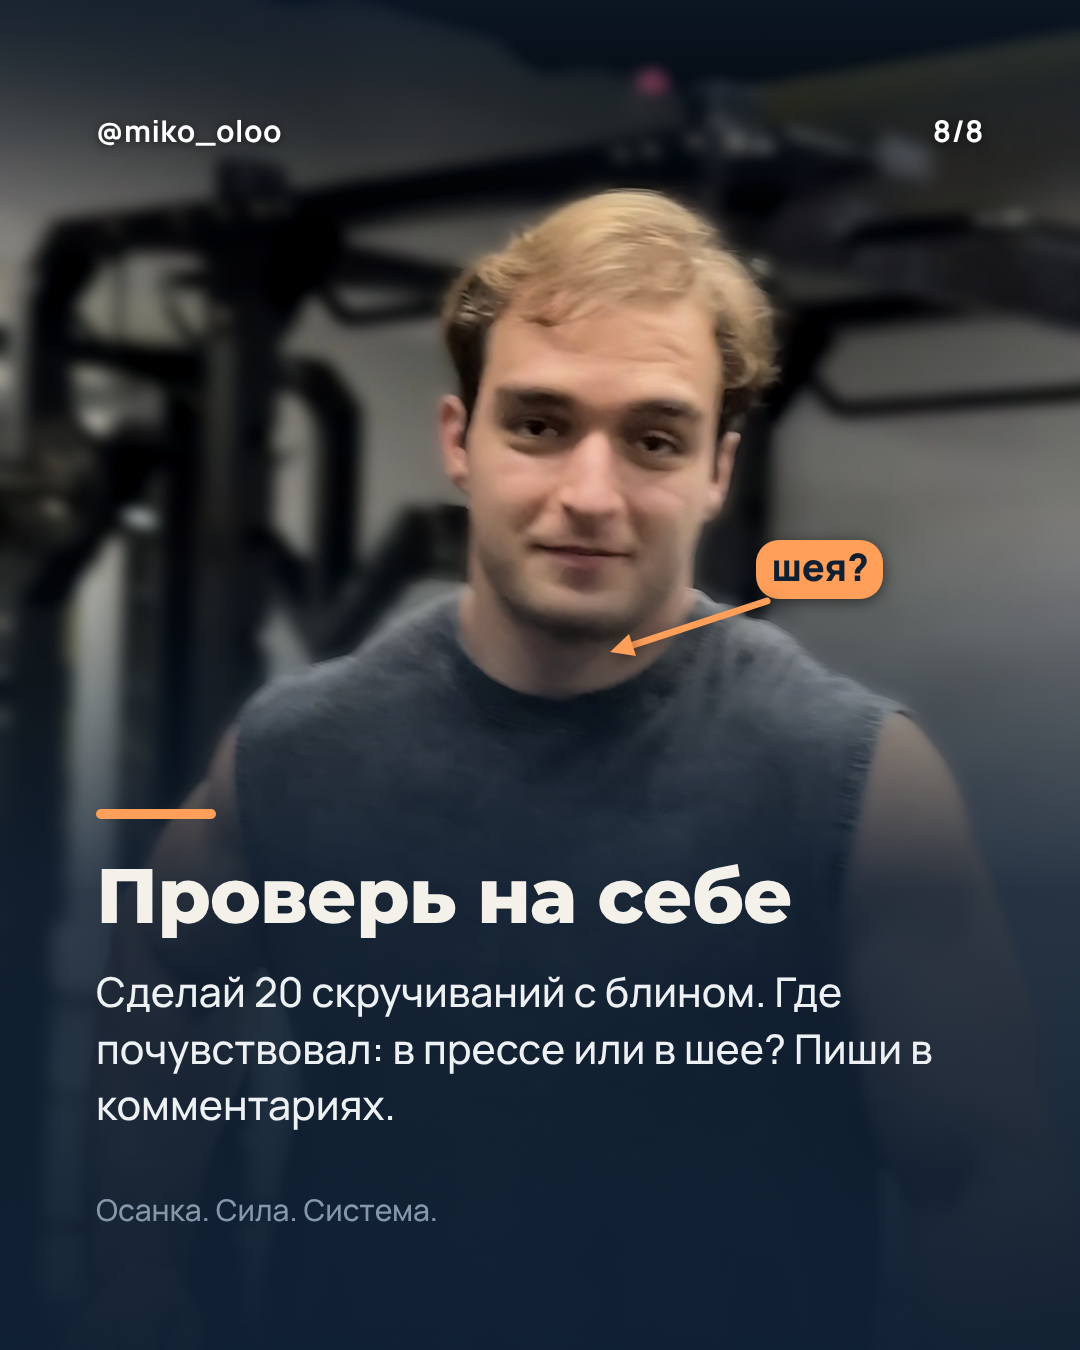
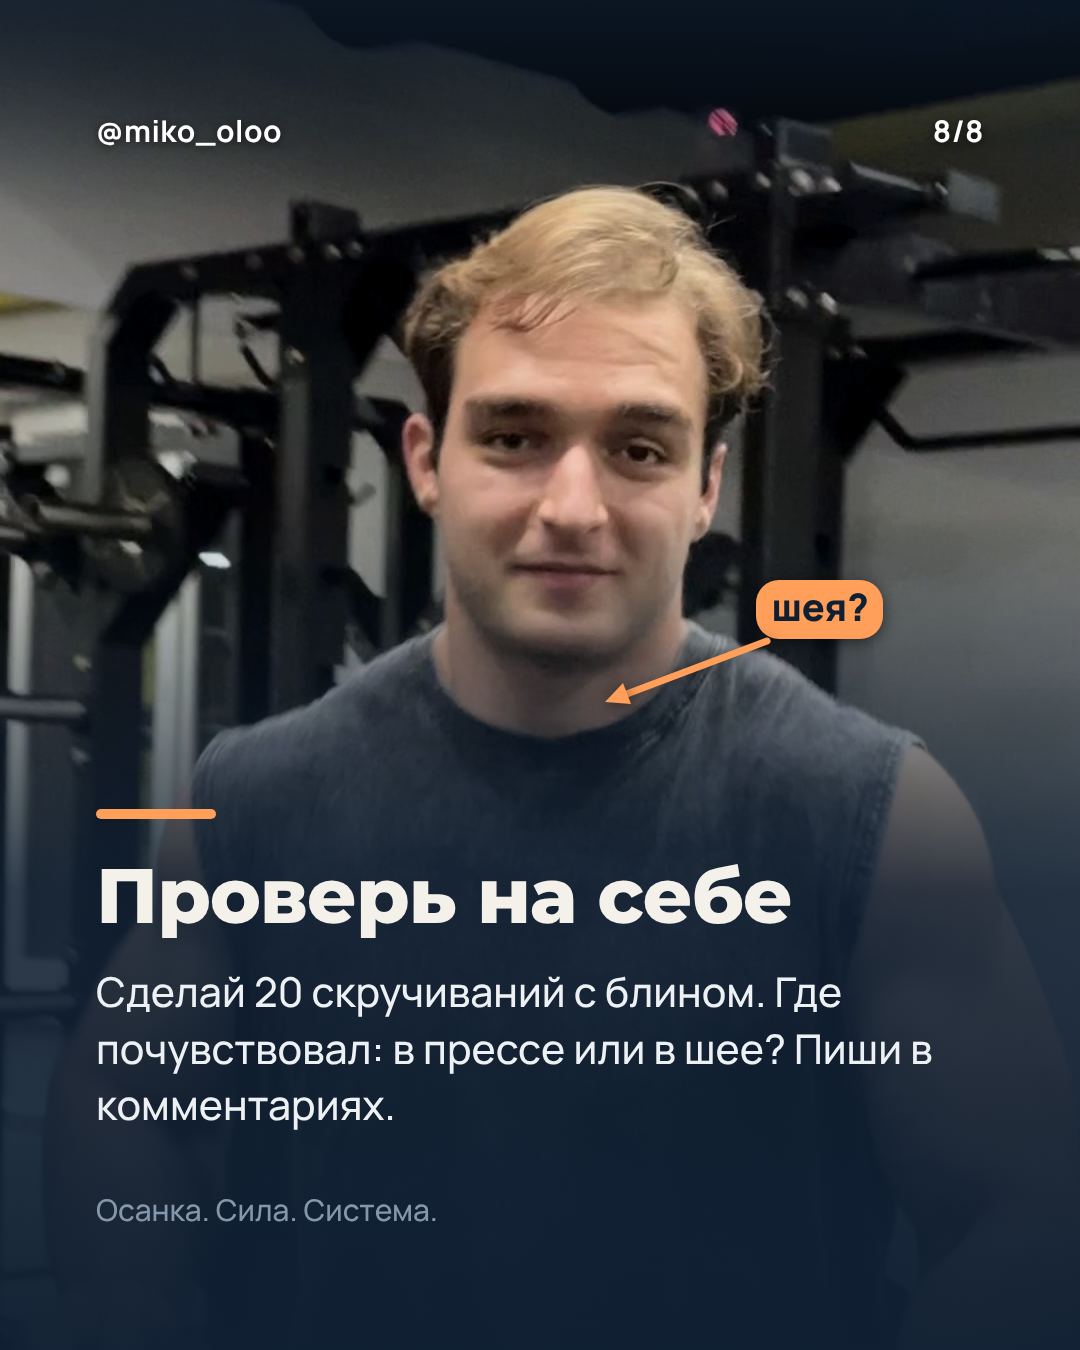
c7: финал на кадре 14,2 с (лицо ровнее, резче, без увеличения и размытия), правки visual-qa
Claude-Session: https://claude.ai/code/session_014b6iEBjPGyacsH4fnBbVwQ

Changed region(s): [[0.0, 0.0311, 1.0, 0.7467]]

diff --git a/content/carousels/build_18-11.py b/content/carousels/build_18-11.py
@@ -131,10 +131,8 @@ def prep():
     glow(f'{B}/c7_bad2.jpg', f'{SRC}/c7_bad.jpg', [[57, 52, 59, 62, 4.5]], RED, 0.6)
     for n in ('c7_phone', 'c7_good_side', 'c7_good_close', 'c7_protocol', 'c7_cta', 'c7_good_top'):
         Image.open(f'{B}/{n}.jpg' if os.path.exists(f'{B}/{n}.jpg') else f'{SRC}/{n}.jpg').save(f'{SRC}/{n}.jpg', quality=90)
-    # c7 финал (19.11): спокойный кадр IMG_9673 13,9 с вместо ухмылки, фон размыт по маске
-    import importlib.util
-    spec = importlib.util.spec_from_file_location('b8', f'{DIR}/build_c8.py'); b8 = importlib.util.module_from_spec(spec); spec.loader.exec_module(b8)
-    b8.portrait(f'{SP}/car/sel9/9673_13.9_sr.png', f'{SRC}/c7_cta_calm.jpg', 0.8, 0.06)
+    # c7 финал (19.11): спокойный кадр IMG_9673 14,2 с вместо ухмылки, без увеличения и размытия (visual-qa)
+    Image.open(f'{SP}/car/sel9_rest/9673_14.2.png').convert('RGB').crop((0, 129, 1080, 1479)).save(f'{SRC}/c7_cta_calm.jpg', quality=93)
 
 
 # ---------- слайды ----------
@@ -345,7 +343,7 @@ def c7():
         pr += [text(28, yy, n, 30, A, 800), text(64, yy, s_, 30, col, 800)]
     proto = svg(*b7, *pr)
     b8 = (W, 1350)
-    cta = svg(*b8, pill(*P(70, 40, *b8), 'шея?', A, BG, 38), arrow(*P(71, 44.5, *b8), *P(56.5, 48.3, *b8), A, 7, 26))
+    cta = svg(*b8, pill(*P(70, 43, *b8), 'шея?', A, BG, 38), arrow(*P(71, 47.5, *b8), *P(56, 52, *b8), A, 7, 26))
     return [
         {'layout': 'photo-top', 'photoHeight': 66, 'big': True, 'photo': 'src/c7_cover.jpg', 'focus': '50% 50%',
          'title': 'Качаешь пресс,\nа устаёт шея?', 'body': 'Дело в руках за головой. Моё скручивание с блином.', 'marks': [cover]},

diff --git a/content/carousels/img/SOURCES.md b/content/carousels/img/SOURCES.md
@@ -55,7 +55,7 @@
 |---|---|---|---|
 | src/c5_gym_phone.jpg (IMG_9694), c5_smile.jpg (IMG_9704), c6_cover.jpg (IMG_9686), c6_cta.jpg (IMG_9695), c7_phone.jpg (IMG_9709) | c5 слайды 7-8, c6 слайды 1 и 9, c7 слайд 3 | фото Микаела со съёмки про осанку 12.11 (Google Диск) | своё |
 | src/c7_cover.jpg, c7_bad.jpg, c7_good_side.jpg, c7_good_close.jpg, c7_good_top.jpg, c7_protocol.jpg, c7_cta.jpg | c7 | кадры из видео Микаела (IMG_9691, 9668, 9669, 9667, 9673, 9692), увеличены Real-ESRGAN general x4v3 (BSD-3), люди на заднем плане размыты. c7_cta.jpg с ухмылкой больше не используется | своё |
-| src/c7_cta_calm.jpg | c7 слайд 8 (с 19.11) | кадр IMG_9673 на 13,9 с, спокойное лицо в камеру (правило 18.11 про лица), Real-ESRGAN, фон размыт по маске MediaPipe | своё |
+| src/c7_cta_calm.jpg | c7 слайд 8 (с 19.11) | кадр IMG_9673 на 14,2 с, спокойное лицо в камеру (правило 18.11 про лица), без увеличения и размытия фона | своё |
 | src/mikael_bench.jpg, mikael_curl.jpg, mikael_pullup.jpg | c5 слайды 2-3, c6 слайд 4 | фото Микаела (прислал 26.10) | своё |
 | src/c5_night.jpg | c5 обложка | pexels.com/photo/light-dawn-sunset-man-6944004 | Pexels |
 | src/c5_tired_gym.jpg | c5 обложка | pexels.com/photo/tired-male-athlete-resting-on-bench-during-weightlifting-workout-in-gym-3838706 | Pexels |
